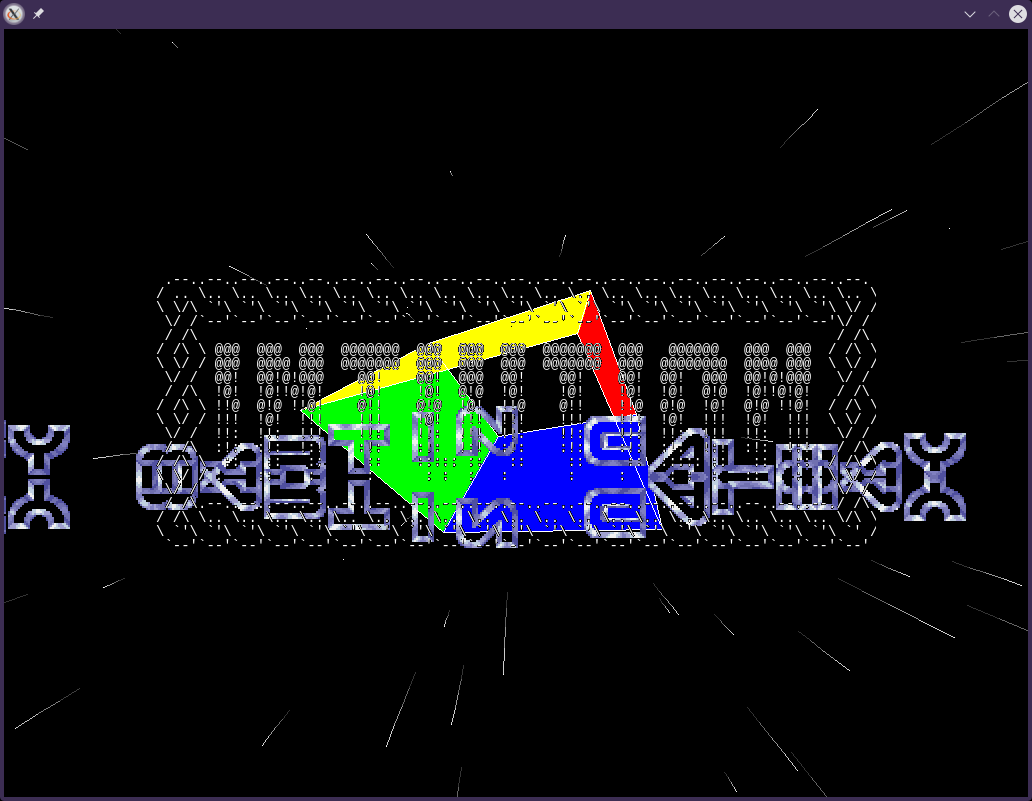
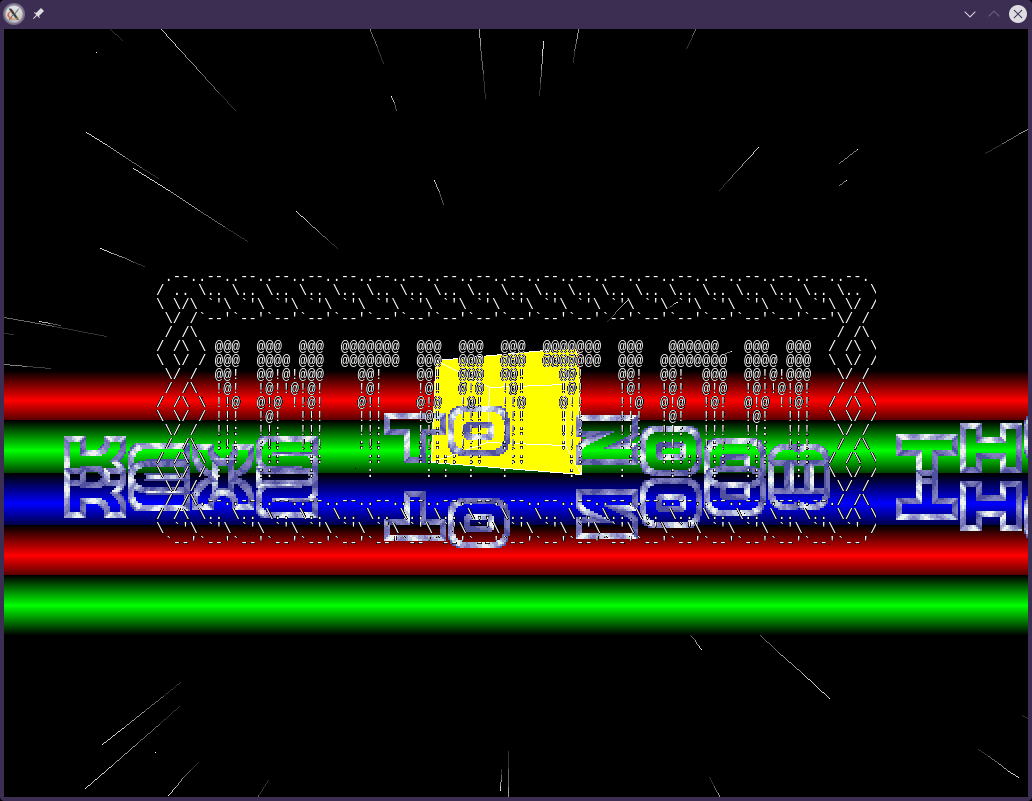
Copper bar effect added.
Tweaked bouncing logo targetY.

Took 2 hours 10 minutes

diff --git a/main.go b/main.go
@@ -24,6 +24,8 @@ const (
 	displayWidth  = 64
 	displayHeight = 64
 	imagePath     = "intuitiontextlogo.png"
+	numBars       = 5
+	barHeight     = 60
 )
 
 type Point3D struct {
@@ -46,6 +48,7 @@ var (
 	zoomFactor    = 0.1
 	targetZoom    = 0.6
 	zoomStep      = 0.002
+	zoomReversed  = false
 	rotationAngle = 0.0
 	cubeVertices  = []Point3D{
 		{1, 1, -1}, {1, -1, -1}, {-1, -1, -1}, {-1, 1, -1},
@@ -94,6 +97,11 @@ var (
 	imageWidth, imageHeight int32
 	posY, targetY           int
 
+	// Copper bar variables
+	barSpeed    = 4
+	barOffsets  = make([]int, numBars)
+	barTextures []*sdl.Texture
+
 	// Loop control
 	running   = true
 	startTime = time.Now()
@@ -127,6 +135,9 @@ func main() {
 	}
 	defer texture.Destroy()
 
+	// Pre-render the copper bars into textures
+	createBarTextures()
+
 	// Main loop
 	startTime = time.Now()
 	for running {
@@ -138,6 +149,7 @@ func main() {
 
 		drawStarfield()
 
+		drawCopperBars(time.Since(startTime).Seconds())
 		drawCube(rotationAngle)
 		rotateCube()
 
@@ -253,6 +265,10 @@ func updateZoomLevel() {
 		zoomFactor += zoomStep
 		if zoomFactor > targetZoom {
 			zoomFactor = targetZoom
+			if !zoomReversed {
+				targetZoom = 0.1
+				zoomReversed = true
+			}
 		}
 	} else if zoomFactor > targetZoom {
 		zoomFactor -= zoomStep
@@ -261,7 +277,6 @@ func updateZoomLevel() {
 		}
 	}
 }
-
 func initStars() {
 	// Initialize stars
 	rand.Seed(time.Now().UnixNano())
@@ -308,6 +323,58 @@ func drawStarfield() {
 
 		renderer.SetDrawColor(255, 255, 255, 255)
 		renderer.DrawPoint(int32(x)+windowWidth/2, int32(y)+windowHeight/2)
+	}
+}
+
+func createBarTextures() {
+	for i := 0; i < numBars; i++ {
+		texture, err := renderer.CreateTexture(sdl.PIXELFORMAT_RGBA8888, sdl.TEXTUREACCESS_TARGET, windowWidth, barHeight)
+		if err != nil {
+			log.Fatalf("Failed to create texture: %s", err)
+		}
+
+		renderer.SetRenderTarget(texture)
+		for y := 0; y < barHeight; y++ {
+			ratio := math.Abs(float64(y-barHeight/2) / float64(barHeight/2))
+			var r, g, b uint8
+			switch i % 3 {
+			case 0:
+				r = uint8(255 * (1 - ratio))
+				g = 0
+				b = 0
+			case 1:
+				r = 0
+				g = uint8(255 * (1 - ratio))
+				b = 0
+			case 2:
+				r = 0
+				g = 0
+				b = uint8(255 * (1 - ratio))
+			}
+
+			renderer.SetDrawColor(r, g, b, 255)
+			renderer.DrawLine(0, int32(y), windowWidth, int32(y))
+		}
+		renderer.SetRenderTarget(nil)
+		barTextures = append(barTextures, texture)
+	}
+
+	for i := 0; i < numBars; i++ {
+		barOffsets[i] = i * (windowHeight / numBars)
+	}
+}
+func drawCopperBars(elapsedTime float64) {
+	for i := 0; i < numBars; i++ {
+		// Calculate the new y position based on the sine function
+		amplitude := float64(barHeight)
+		frequency := 2.0
+		baseY := (windowHeight / 2) + int32(i*barHeight/2)
+		offsetY := amplitude * math.Sin(frequency*elapsedTime+float64(i)*0.4)
+
+		dstRect := sdl.Rect{X: 0, Y: baseY + int32(offsetY), W: windowWidth, H: barHeight}
+
+		// Render the bar
+		renderer.Copy(barTextures[i], nil, &dstRect)
 	}
 }
 
@@ -455,7 +522,7 @@ func setupBouncingLogo() error {
 
 	// Initial position and target position
 	posY = -int(imageHeight)
-	targetY = (windowHeight - int(imageHeight)) / 2
+	targetY = (windowHeight - int(imageHeight)) / 7
 
 	return nil
 }
@@ -486,7 +553,7 @@ func drawBouncingLogo() {
 
 func introQuit() {
 	// Enable blending mode
-	renderer.SetDrawBlendMode(sdl.BLENDMODE_BLEND)
+	renderer.SetDrawBlendMode(sdl.BLENDMODE_MOD)
 
 	// Fade out the music and quit
 	for i := 0; i <= 255; i++ {

diff --git a/README.md b/README.md
@@ -4,15 +4,17 @@ Got bored and made an oldskool crack intro.
 
 Features:
 
-A 3D starfield with faded trails.
+1. A 3D starfield with faded trails.
 
-A keyboard zoomable rotating cube.
+2. A keyboard zoomable rotating cube.
 
-A dual sine wave mirrored scrolltext.
+3. A dual sine wave mirrored scrolltext.
 
-A protracker chiptune.
+4. A protracker chiptune.
 
-A bouncing logo for the glories!!!111EleventyOne!!
+5. A bouncing logo for the glories!!!111EleventyOne!!
+
+6. YPos scrolling Amiga copper bars.
 
 
 
